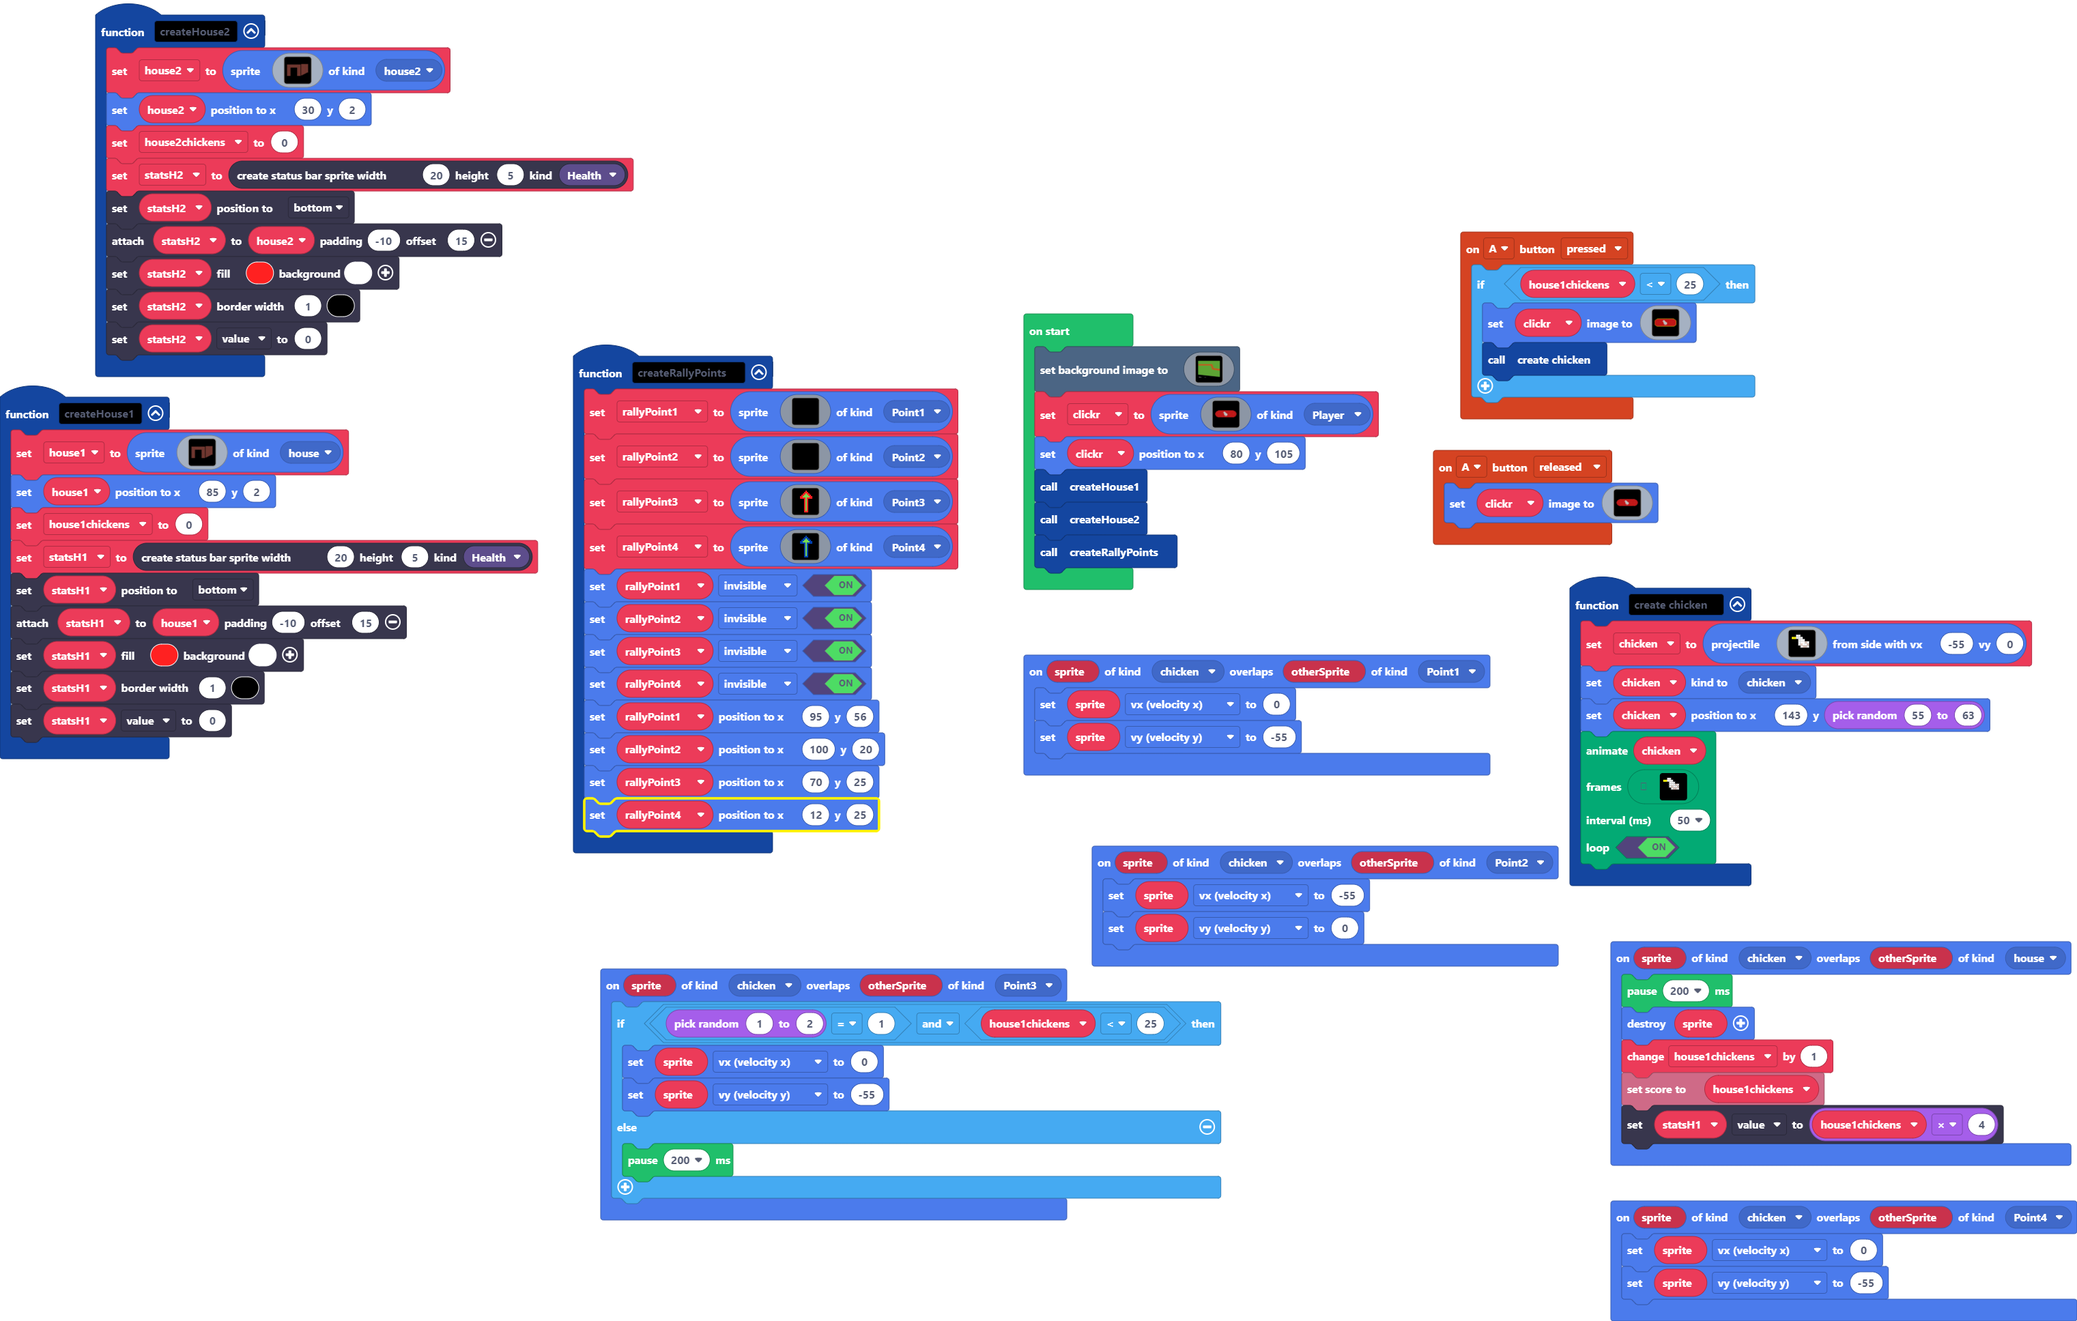
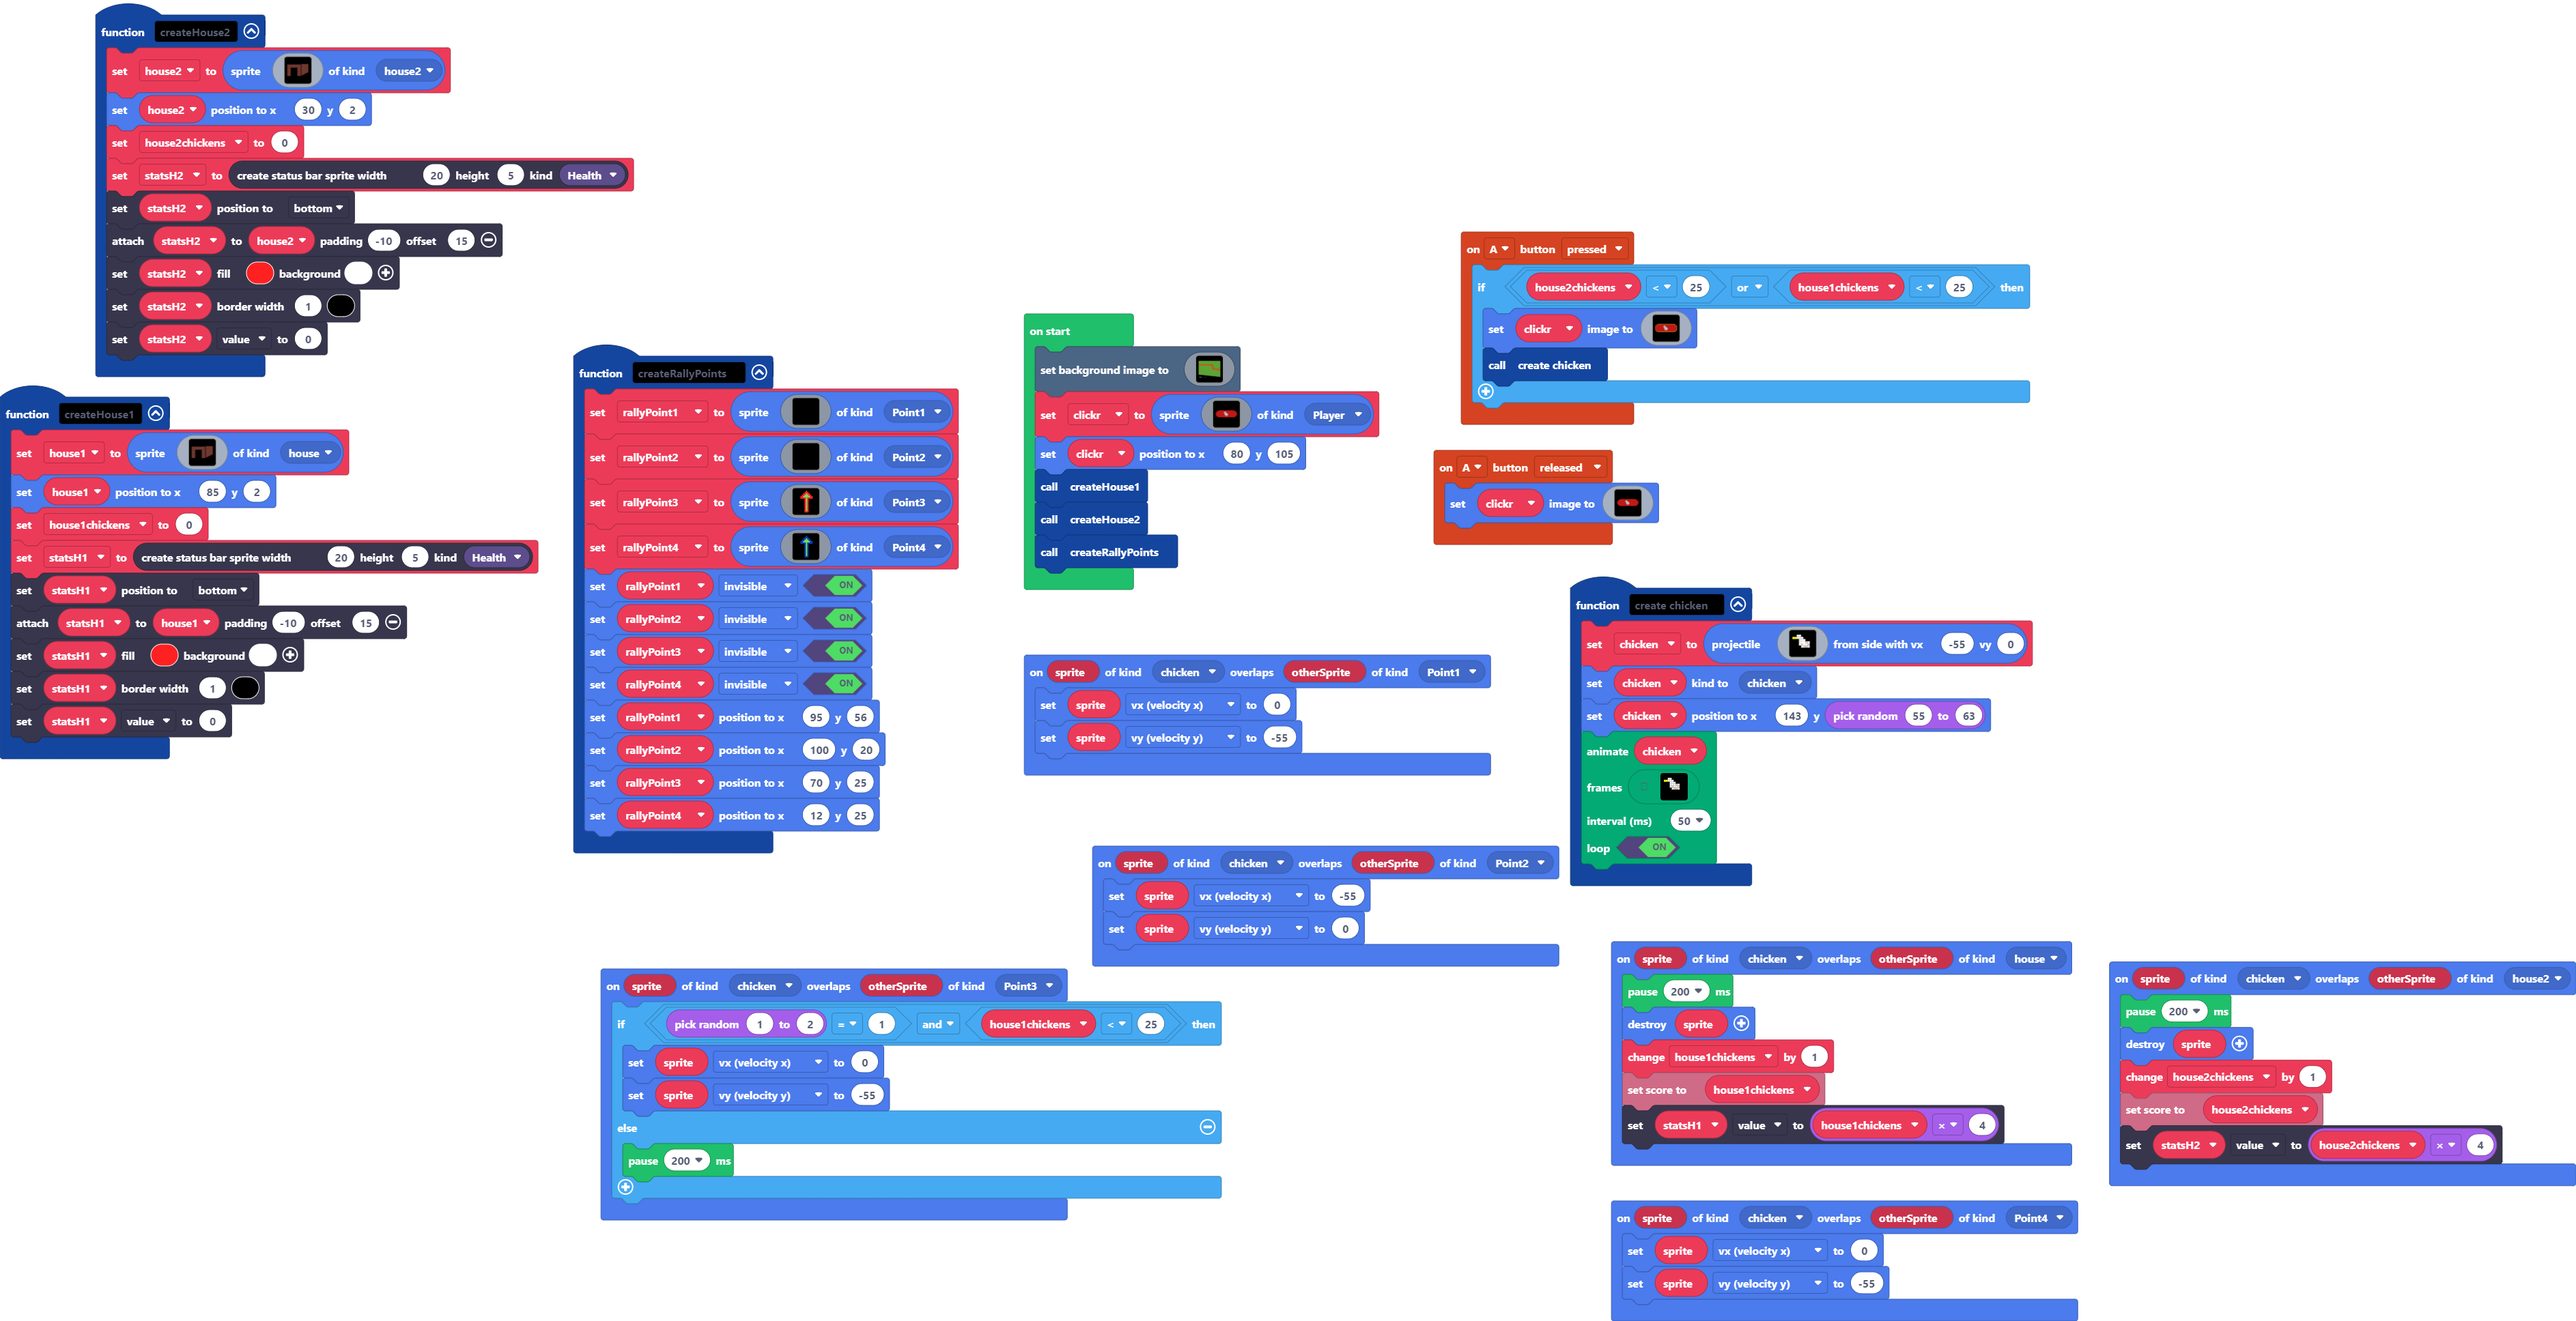
Now the chickens will also interact with the 2nd house.

diff --git a/main.ts b/main.ts
@@ -7,6 +7,13 @@ namespace SpriteKind {
     export const house = SpriteKind.create()
     export const house2 = SpriteKind.create()
 }
+sprites.onOverlap(SpriteKind.chicken, SpriteKind.house2, function (sprite, otherSprite) {
+    pause(200)
+    sprite.destroy()
+    house2chickens += 1
+    info.setScore(house2chickens)
+    statsH2.value = house2chickens * 4
+})
 function createHouse2 () {
     house2 = sprites.create(img`
         fffffffffffffffffffffffffffffffffeeeeeeeeeeeeeeeef
@@ -122,7 +129,7 @@ sprites.onOverlap(SpriteKind.chicken, SpriteKind.Point4, function (sprite, other
     sprite.vy = -55
 })
 controller.A.onEvent(ControllerButtonEvent.Pressed, function () {
-    if (house1chickens < 25) {
+    if (house2chickens < 25 || house1chickens < 25) {
         clickr.setImage(img`
             .........5555555555555555555555555555555555555555555555555555555.........
             ........552222222222222222222222222222222222222222222222222222255........
@@ -335,9 +342,9 @@ let rallyPoint2: Sprite = null
 let rallyPoint1: Sprite = null
 let house1chickens = 0
 let chicken: Sprite = null
+let house2: Sprite = null
 let statsH2: StatusBarSprite = null
 let house2chickens = 0
-let house2: Sprite = null
 let clickr: Sprite = null
 scene.setBackgroundImage(img`
     7777777777777777777777777777777777777777777777777777777777777777777777777777777777777777777777777777777777777777777777777777777777777777777777777777777777777777
